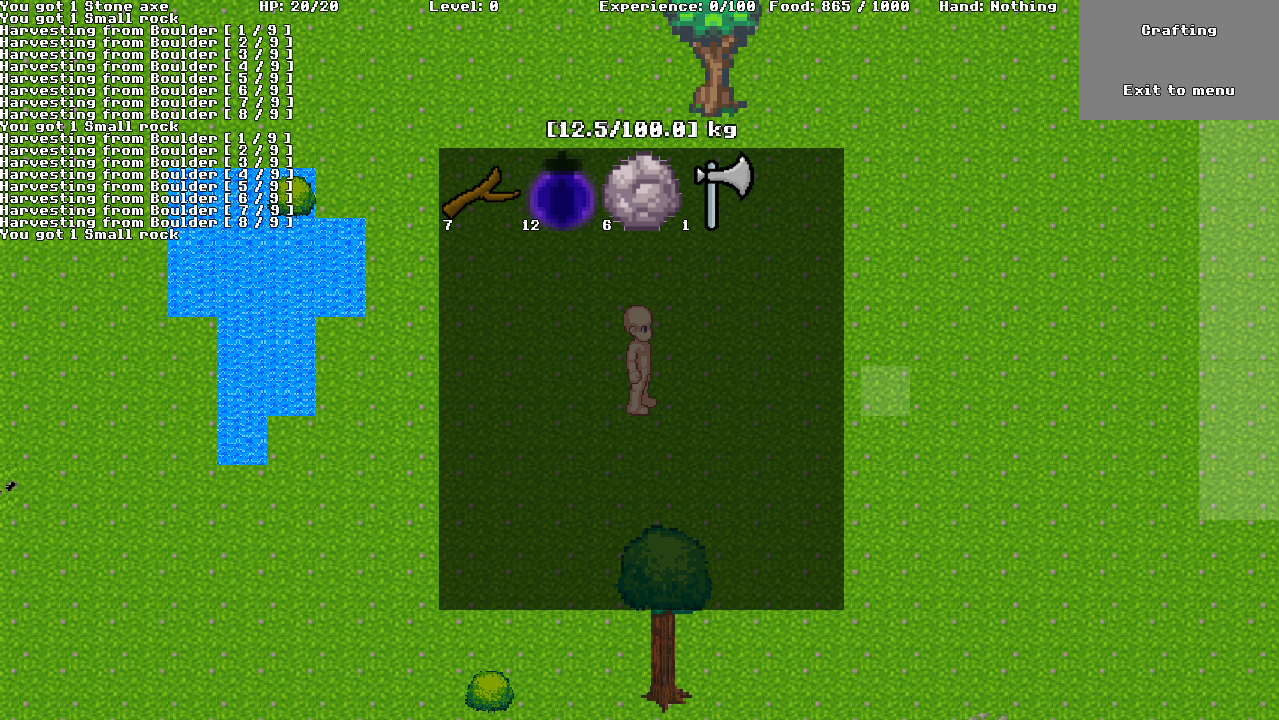
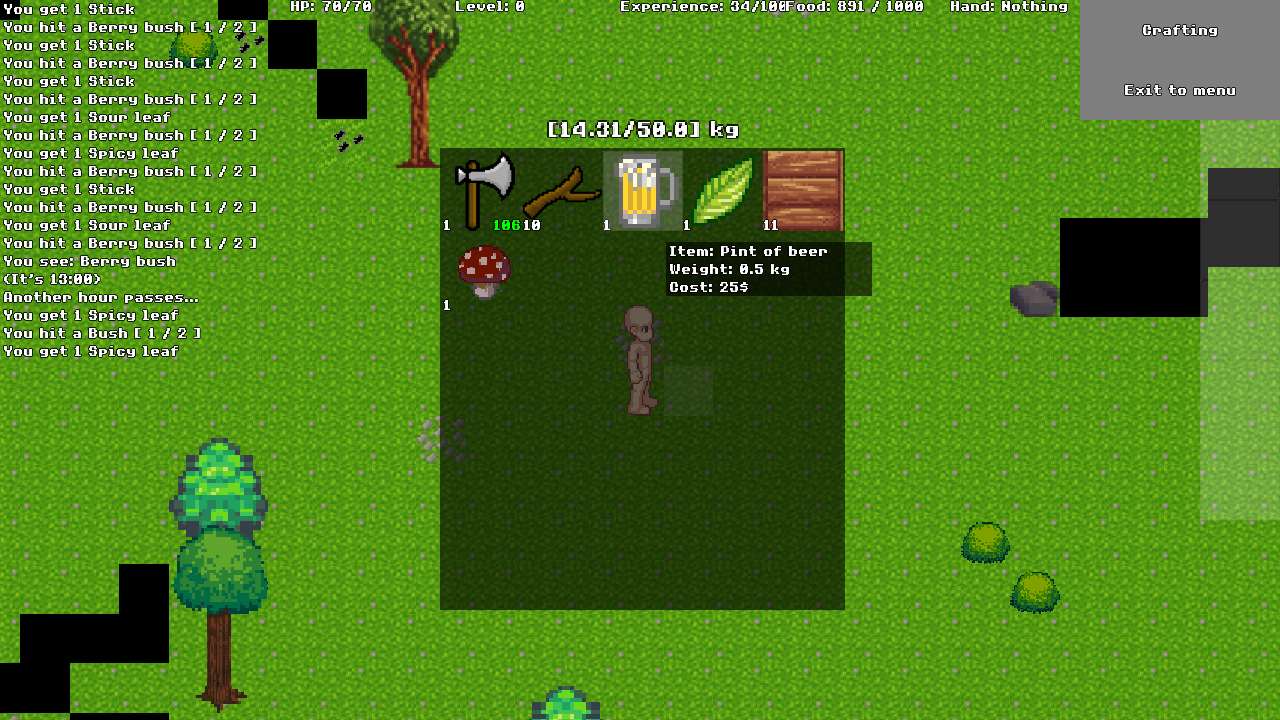
You'll now be notified via game log when you unlock a new craft recipe; Minor fixes and UI adjustments.

diff --git a/MadSand-FallenRiseFromDust-core/src/ru/bernarder/fallenrisefromdust/Gui.java b/MadSand-FallenRiseFromDust-core/src/ru/bernarder/fallenrisefromdust/Gui.java
@@ -43,6 +43,7 @@ import ru.bernarder.fallenrisefromdust.map.Map;
 import ru.bernarder.fallenrisefromdust.map.MapObject;
 import ru.bernarder.fallenrisefromdust.map.Tile;
 import ru.bernarder.fallenrisefromdust.properties.ItemProp;
+import ru.bernarder.fallenrisefromdust.properties.ObjectProp;
 import ru.bernarder.fallenrisefromdust.properties.TileProp;
 import ru.bernarder.fallenrisefromdust.world.World;
 
@@ -70,6 +71,8 @@ public class Gui {
 	public static final int EQ_SLOTS = 5;
 	static float defLblWidth = Gdx.graphics.getWidth() / 4;
 	public static final float ACTION_TBL_YPOS = Gdx.graphics.getHeight() / 6f;
+	
+	public static String noticeMsgColor = "[#16E1EA]";
 
 	static NinePatchDrawable transparency;
 
@@ -670,24 +673,8 @@ public class Gui {
 		Utils.out("Refreshing craft menu...");
 		craftbl.remove();
 		craftbl = new Table();
-		HashSet<Integer> reqs;
 		Player player = World.player;
-
-		for (Entry<Integer, Vector<Integer>> entry : ItemProp.craftReq.entrySet()) {
-			reqs = new HashSet<Integer>(entry.getValue());
-			HashSet<Integer> all = new HashSet<Integer>(player.unlockedItems);
-			int id = entry.getKey();
-
-			if (reqs.contains(-1))
-				continue;
-
-			all.retainAll(reqs);
-
-			if (all.equals(reqs) && !player.craftRecipes.contains(id)) {
-				Utils.out("New recipe id: " + id + " unlocked! Adding to the list...");
-				player.craftRecipes.add(id);
-			}
-		}
+		// player.refreshAvailableRecipes();
 		int craftSz = player.craftRecipes.size();
 		Utils.out("Total unlocked recipes: " + craftSz + " out of " + Resources.CRAFTABLES);
 
@@ -928,7 +915,7 @@ public class Gui {
 		overlay.addActor(logtbl);
 		overlay.addActor(mousemenu);
 		overlay.addActor(gamecontext);
-		
+
 		overlay.addListener(new ClickListener(Buttons.RIGHT) {
 			public void clicked(InputEvent event, float x, float y) {
 				if (dialogActive)
@@ -944,7 +931,7 @@ public class Gui {
 				}
 			}
 		});
-		
+
 		overlay.addListener(new ClickListener(Buttons.LEFT) {
 			public void clicked(InputEvent event, float x, float y) {
 				Mouse.justClicked = true;
@@ -1137,6 +1124,7 @@ public class Gui {
 		MapObject object = loc.getObject(coords.x, coords.y);
 		Npc npc = loc.getNpc(coords.x, coords.y);
 		String tileAction = TileProp.oninteract.get(tile.id);
+		String objAction = ObjectProp.interactAction.get(object.id);
 
 		if (tileAction == "-1" && npc == Map.nullNpc && object == Map.nullObject) {
 			actionTbl.setVisible(false);
@@ -1160,9 +1148,10 @@ public class Gui {
 			});
 		} else if (npc != Map.nullNpc && !dialogActive)
 			activateInteractBtn(interactBtn, "Talk to " + npc.stats.name, npcInteractListener);
-		else if (object != Map.nullObject)
+		else if (object != Map.nullObject && objAction != "-1")
 			activateInteractBtn(interactBtn, "Interact with " + object.name, objInteractListener);
 		else {
+			actionTbl.removeActor(interactBtn);
 			actionTbl.setVisible(false);
 		}
 	}

diff --git a/MadSand-FallenRiseFromDust-core/src/ru/bernarder/fallenrisefromdust/entities/Player.java b/MadSand-FallenRiseFromDust-core/src/ru/bernarder/fallenrisefromdust/entities/Player.java
@@ -2,6 +2,8 @@ package ru.bernarder.fallenrisefromdust.entities;
 
 import java.util.ArrayList;
 import java.util.HashSet;
+import java.util.Vector;
+import java.util.Map.Entry;
 
 import com.badlogic.gdx.Gdx;
 import com.fasterxml.jackson.annotation.JsonIgnore;
@@ -160,6 +162,27 @@ public class Player extends Entity {
 		}
 	}
 
+	public void refreshAvailableRecipes() {
+		HashSet<Integer> reqs;
+
+		for (Entry<Integer, Vector<Integer>> entry : ItemProp.craftReq.entrySet()) {
+			reqs = new HashSet<Integer>(entry.getValue());
+			HashSet<Integer> all = new HashSet<Integer>(unlockedItems);
+			int id = entry.getKey();
+
+			if (reqs.contains(-1))
+				continue;
+
+			all.retainAll(reqs);
+
+			if (all.equals(reqs) && !craftRecipes.contains(id)) {
+				MadSand.notice("You figure out how to craft " + ItemProp.name.get(id) + "!");
+				Utils.out("New recipe id: " + id + " unlocked! Adding to the list...");
+				craftRecipes.add(id);
+			}
+		}
+	}
+
 	void damageHeldTool() {
 		damageHeldTool(Skill.None);
 	}
@@ -168,10 +191,11 @@ public class Player extends Entity {
 	public boolean addItem(Item item) {
 		if (super.addItem(item)) {
 			MadSand.print("You get " + Item.queryToName(item.id + "/" + item.quantity));
-			unlockedItems.add(item.id);
+			if (unlockedItems.add(item.id))
+				refreshAvailableRecipes();
 			return true;
 		} else {
-			MadSand.print("You can't carry any more items.");
+			MadSand.notice("You can't carry any more items.");
 			return false;
 		}
 	}
@@ -296,8 +320,8 @@ public class Player extends Entity {
 			return;
 		}
 		if (!loc.editable) {
-			MadSand.print("You try to somehow interact with " + obj.name);
-			MadSand.print("But suddenly, you feel that it's protected by some mysterious force");
+			MadSand.notice("You try to interact with " + obj.name + "..." + Gui.LINEBREAK
+					+ "But suddenly, you feel that it's protected by some mysterious force");
 			return;
 		}
 		int item = MapObject.getAltItem(id, ItemProp.type.get(stats.hand.id).get());

diff --git a/MadSand-FallenRiseFromDust-core/src/ru/bernarder/fallenrisefromdust/Resources.java b/MadSand-FallenRiseFromDust-core/src/ru/bernarder/fallenrisefromdust/Resources.java
@@ -294,6 +294,7 @@ public class Resources {
 		Vector<Integer> stages, slens;
 		ItemType type;
 		int i = 0, cc = 0;
+		boolean unlockable;
 		while (i < Resources.LASTITEMID) {
 			item[i] = new Texture(Gdx.files.local(MadSand.SAVEDIR + "inv/" + i + ".png"));
 			if (!XMLUtils.getKey(itemDoc, XML_ITEM_NODE, "" + i, XML_RECIPE_NODE).equals("-1")) {
@@ -339,20 +340,30 @@ public class Resources {
 
 			ItemProp.hp.put(i, Integer.parseInt(XMLUtils.getKey(itemDoc, XML_ITEM_NODE, "" + i, "hp")));
 			ItemProp.cost.put(i, Integer.parseInt(XMLUtils.getKey(itemDoc, XML_ITEM_NODE, "" + i, "cost")));
-			ItemProp.craftable.put(i,
-					Integer.parseInt(XMLUtils.getKey(itemDoc, XML_ITEM_NODE, "" + i, "craftable")) != 0);
+
+			unlockable = Boolean.parseBoolean(XMLUtils.getKey(itemDoc, XML_ITEM_NODE, "" + i, "unlockable", "true"));
+			ItemProp.unlockable.put(i, unlockable);
+
 			ItemProp.recipe.put(i, XMLUtils.getKey(itemDoc, XML_ITEM_NODE, "" + i, XML_RECIPE_NODE));
 			ItemProp.heal.put(i, XMLUtils.getKey(itemDoc, XML_ITEM_NODE, "" + i, "heal"));
 			ItemProp.useAction.put(i, XMLUtils.getKey(itemDoc, XML_ITEM_NODE, "" + i, "onuse"));
 
-			String reqlist = XMLUtils.getKey(itemDoc, XML_ITEM_NODE, "" + i, "craftreq");
-			cont = reqlist.split("\\,");
-			Vector<Integer> reqs = new Vector<Integer>();
-			for (String req : cont)
-				reqs.add(Integer.parseInt(req));
-			if (!reqlist.contains(","))
-				reqs.add(Integer.parseInt(reqlist));
-			ItemProp.craftReq.put(i, reqs);
+			String reqlist = ItemProp.recipe.get(i);
+			String item[];
+			if (reqlist != "-1" && unlockable) {
+				if (!reqlist.contains(":"))
+					reqlist += ":";
+				cont = reqlist.split("\\:");
+				Vector<Integer> reqs = new Vector<Integer>();
+				for (String req : cont) {
+					if (req == "")
+						break;
+					item = req.split("\\/");
+					reqs.add(Integer.parseInt(item[0]));
+				}
+
+				ItemProp.craftReq.put(i, reqs);
+			}
 			i++;
 		}
 	}

diff --git a/MadSand-FallenRiseFromDust-core/src/ru/bernarder/fallenrisefromdust/entities/inventory/Item.java b/MadSand-FallenRiseFromDust-core/src/ru/bernarder/fallenrisefromdust/entities/inventory/Item.java
@@ -30,7 +30,7 @@ public class Item {
 	int altobject, cost;
 	public ItemType type = ItemType.Item;
 	Skill skill = Skill.None;
-	boolean craftable;
+	boolean unlockable;
 	double weight = 0;
 
 	int lvl; // level of item (only for weapons/armor)
@@ -80,18 +80,19 @@ public class Item {
 
 	String getInfoString() {
 		String info = "";
-		info += "Item: " + name + Gui.LINEBREAK;
-		info += "Weight: " + Utils.round(weight) + " kg" + Gui.LINEBREAK;
-		info += "Cost: " + cost + "$";
+		info += name + Gui.LINEBREAK;
+
 		if (type.isArmor() || type.isWeapon()) {
-			info += Gui.LINEBREAK;
 			info += equipStats.getString();
 		}
+
 		if (type == ItemType.Consumable) {
-			info += Gui.LINEBREAK;
 			info += "Satiation: " + satiationAmount + Gui.LINEBREAK;
-			info += "Health: " + healAmount;
+			info += "Health: " + healAmount + Gui.LINEBREAK;
 		}
+
+		info += "Weight: " + Utils.round(weight) + " kg" + Gui.LINEBREAK;
+		info += "Cost: " + cost + "$";
 		return info;
 	}
 
@@ -160,7 +161,7 @@ public class Item {
 		this.cost = ItemProp.cost.get(id);
 		this.dmg = ItemProp.dmg.get(id);
 		this.hp = ItemProp.hp.get(id);
-		this.craftable = ItemProp.craftable.get(id);
+		this.unlockable = ItemProp.unlockable.get(id);
 		this.skill = ItemProp.skill.get(id);
 
 		if (type == ItemType.Consumable) {

diff --git a/MadSand-FallenRiseFromDust-core/src/ru/bernarder/fallenrisefromdust/entities/inventory/EquipStats.java b/MadSand-FallenRiseFromDust-core/src/ru/bernarder/fallenrisefromdust/entities/inventory/EquipStats.java
@@ -53,11 +53,16 @@ public class EquipStats {
 	@JsonIgnore
 	public String getString() {
 		String ret = "";
-		ret += "Constitution: " + constitution + Gui.LINEBREAK;
-		ret += "Dexterity: " + dexterity + Gui.LINEBREAK;
-		ret += "Strength: " + strength + Gui.LINEBREAK;
-		ret += "Accuracy: " + accuracy + Gui.LINEBREAK;
-		ret += "Intelligence: " + intelligence;
+		if (constitution != 0)
+			ret += "Constitution: " + constitution + Gui.LINEBREAK;
+		if (dexterity != 0)
+			ret += "Dexterity: " + dexterity + Gui.LINEBREAK;
+		if (strength != 0)
+			ret += "Strength: " + strength + Gui.LINEBREAK;
+		if (accuracy != 0)
+			ret += "Accuracy: " + accuracy + Gui.LINEBREAK;
+		if (intelligence != 0)
+			ret += "Intelligence: " + intelligence + Gui.LINEBREAK;
 		return ret;
 	}
 }

diff --git a/MadSand-FallenRiseFromDust-core/src/ru/bernarder/fallenrisefromdust/properties/ItemProp.java b/MadSand-FallenRiseFromDust-core/src/ru/bernarder/fallenrisefromdust/properties/ItemProp.java
@@ -20,7 +20,7 @@ public class ItemProp {
 	public static HashMap<Integer, ItemType> type = new HashMap<Integer, ItemType>();
 	public static HashMap<Integer, Integer> altObject = new HashMap<Integer, Integer>();
 	public static HashMap<Integer, Integer> cost = new HashMap<Integer, Integer>();
-	public static HashMap<Integer, Boolean> craftable = new HashMap<Integer, Boolean>();
+	public static HashMap<Integer, Boolean> unlockable = new HashMap<Integer, Boolean>();
 	public static HashMap<Integer, String> recipe = new HashMap<Integer, String>();
 	public static HashMap<Integer, String> heal = new HashMap<Integer, String>();
 	public static HashMap<Integer, String> useAction = new HashMap<Integer, String>();

diff --git a/MadSand-FallenRiseFromDust-core/src/ru/bernarder/fallenrisefromdust/Mouse.java b/MadSand-FallenRiseFromDust-core/src/ru/bernarder/fallenrisefromdust/Mouse.java
@@ -78,7 +78,7 @@ public class Mouse {
 		}
 
 		info += ("Tile: " + TileProp.name.get(tile.id)) + Gui.LINEBREAK;
-		
+
 		if (loot != Map.nullLoot) {
 			info += "On the ground: ";
 			info += loot.getInfo() + Gui.LINEBREAK;
@@ -112,7 +112,7 @@ public class Mouse {
 		if ((World.player.isStepping()) || (Gui.gameUnfocused))
 			return;
 
-		if (justClicked) {
+		if (justClicked && ((pointingAtObject && diagonal) || rest)) {
 			justClicked = false;
 
 			World.player.lookAtMouse(wx, wy, diagonal);
@@ -131,6 +131,7 @@ public class Mouse {
 			}
 
 		}
+		justClicked = false;
 
 		if (Gdx.input.isButtonPressed(Buttons.LEFT) && !(diagonal && pointingAtObject) && !rest) {
 			World.player.lookAtMouse(wx, wy);

diff --git a/MadSand-FallenRiseFromDust-core/src/ru/bernarder/fallenrisefromdust/MadSand.java b/MadSand-FallenRiseFromDust-core/src/ru/bernarder/fallenrisefromdust/MadSand.java
@@ -341,6 +341,14 @@ public class MadSand extends Game {
 			Gui.log[li].setText(oldarg + " x" + (++repeat));
 	}
 
+	public static void print(String msg, String color) {
+		print(color + msg + "[]");
+	}
+
+	public static void notice(String msg) {
+		print("* " + msg, Gui.noticeMsgColor);
+	}
+
 	public void render() {
 		if (state.equals(GameState.GAME)) {
 			if (!Gui.gameUnfocused && World.player.isNewlyCreated()) {

diff --git a/MadSand-FallenRiseFromDust-core/src/ru/bernarder/fallenrisefromdust/entities/Stats.java b/MadSand-FallenRiseFromDust-core/src/ru/bernarder/fallenrisefromdust/entities/Stats.java
@@ -19,7 +19,7 @@ public class Stats {
 	final static int STARVE_DMG = 1;
 	final static int FOOD_HEAL = 1;
 
-	static final int STAT_MIN_SUM = 15;
+	static final int STAT_MIN_SUM = 20;
 	static final int STAT_MAX_SUM = 22;
 	static final int STAT_RAND_MAX = 9;
 

diff --git a/README.md b/README.md
@@ -1,6 +1,6 @@
 # MadSand
-### Survival roguelike with RPG elements
-### <a href="https://github.com/Hitonoriol/MadSand/releases/download/launcher-r15/MadSandLauncher.jar">Download Launcher</a>
+### Open-world sandbox roguelike
+### <a href="https://github.com/Hitonoriol/MadSand/releases/download/launcher/MadSandLauncher.jar">Download Launcher</a>
 ### <a href="https://github.com/Hitonoriol/MadSand/wiki">Wiki</a>
 
 
@@ -13,7 +13,13 @@ jackson-core
 jackson-databind
 </pre>
 ### Screenshots
+![screenshot](https://raw.githubusercontent.com/Hitonoriol/MadSand/master/Screenshots/0.png)
 ![screenshot](https://raw.githubusercontent.com/Hitonoriol/MadSand/master/Screenshots/1.png)
 ![screenshot](https://raw.githubusercontent.com/Hitonoriol/MadSand/master/Screenshots/2.png)
 ![screenshot](https://raw.githubusercontent.com/Hitonoriol/MadSand/master/Screenshots/3.png)
 ![screenshot](https://raw.githubusercontent.com/Hitonoriol/MadSand/master/Screenshots/4.png)
+![screenshot](https://raw.githubusercontent.com/Hitonoriol/MadSand/master/Screenshots/5.png)
+![screenshot](https://raw.githubusercontent.com/Hitonoriol/MadSand/master/Screenshots/6.png)
+![screenshot](https://raw.githubusercontent.com/Hitonoriol/MadSand/master/Screenshots/7.png)
+![screenshot](https://raw.githubusercontent.com/Hitonoriol/MadSand/master/Screenshots/8.png)
+![screenshot](https://raw.githubusercontent.com/Hitonoriol/MadSand/master/Screenshots/9.png)
